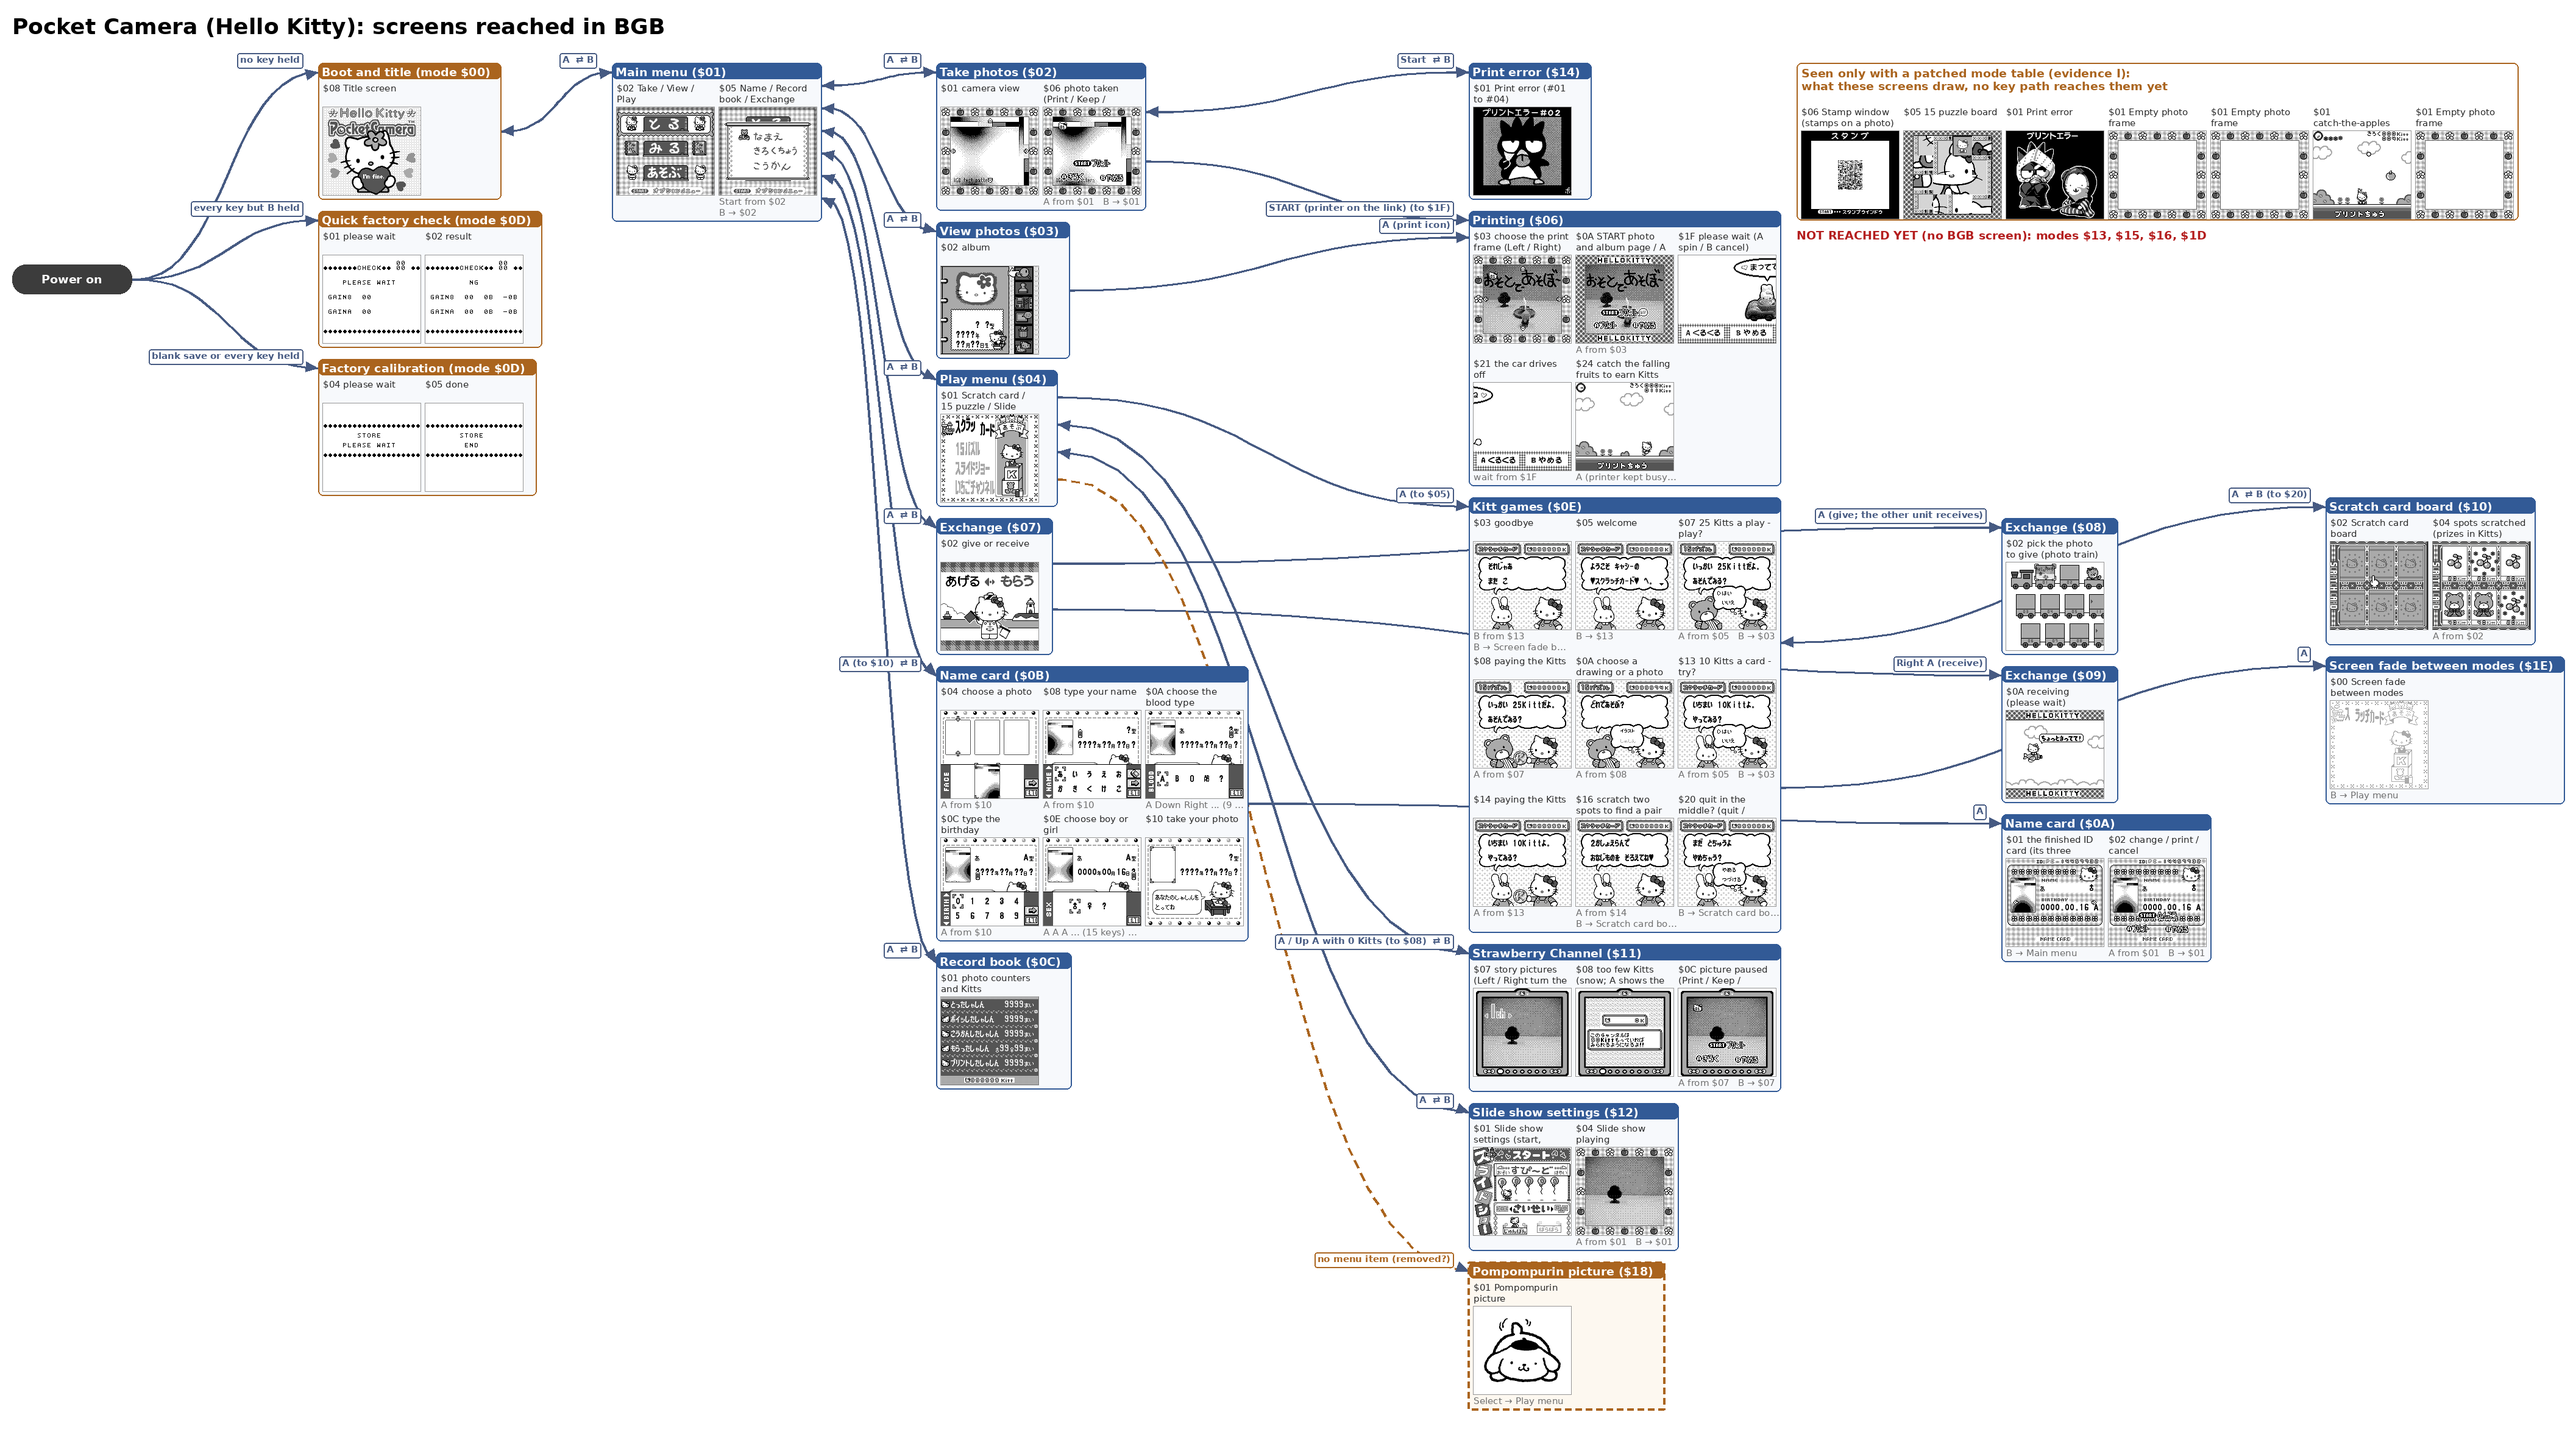
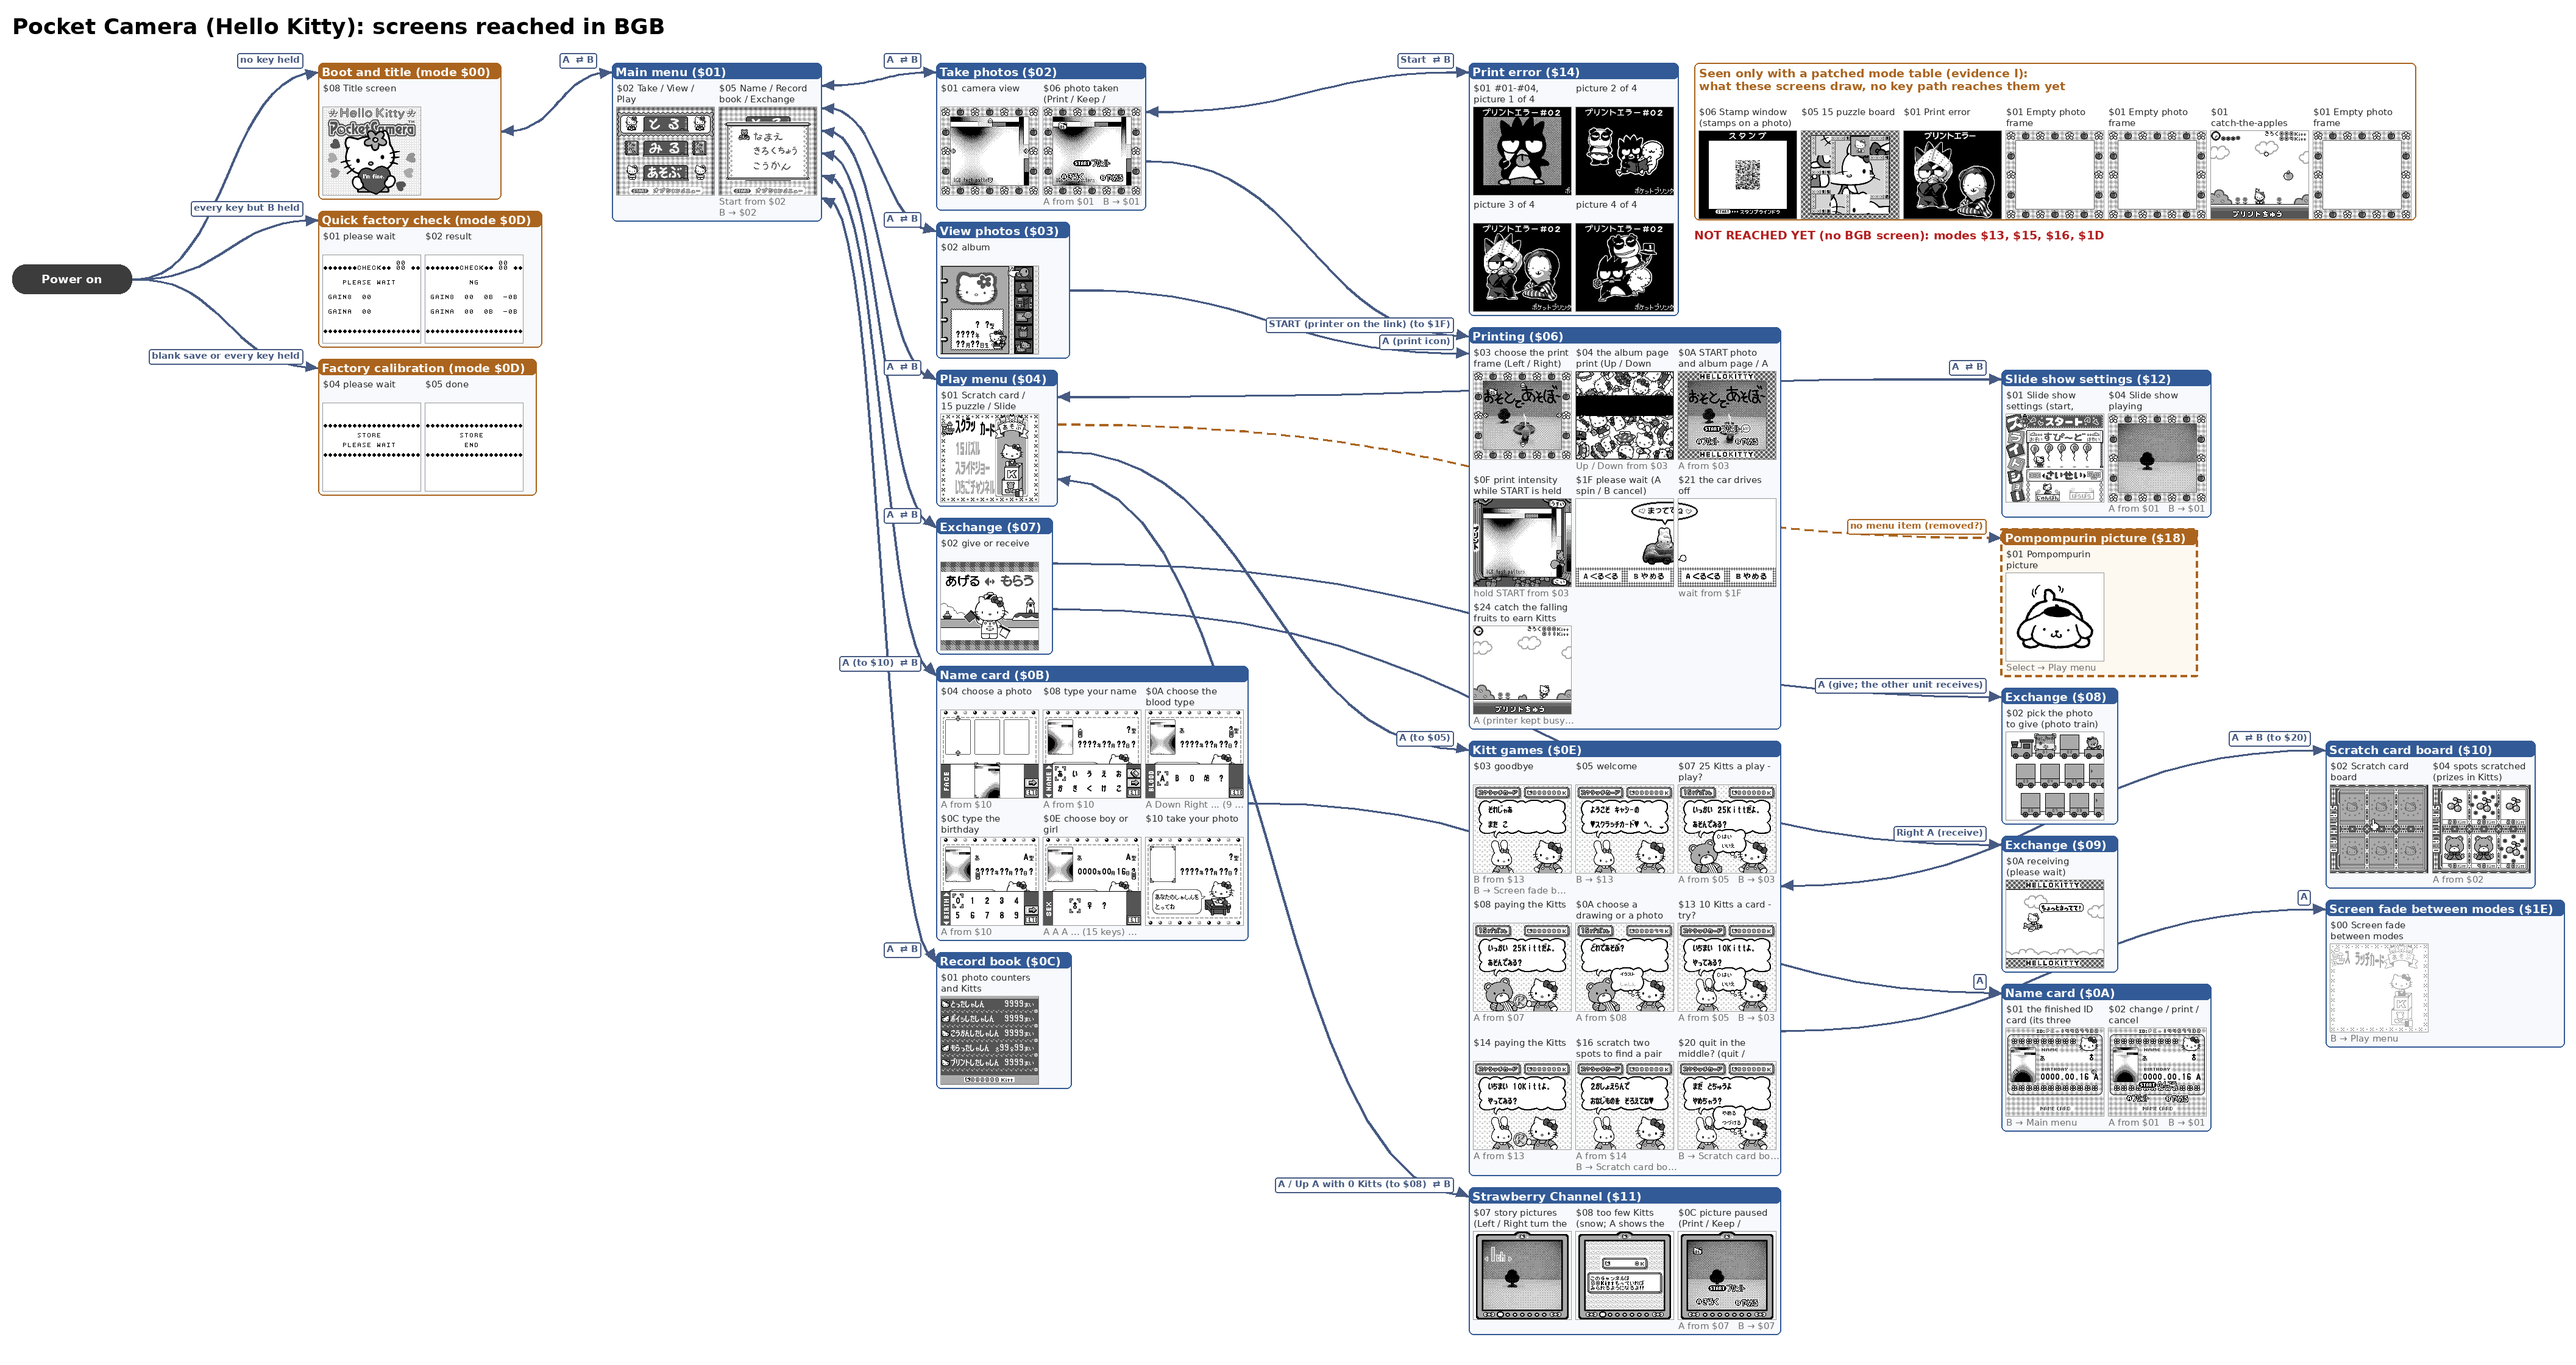
Hello Kitty screen tree: the print intensity (START held on the print frame, 06:0F), the album page print (Up / Down, 06:04) and the four print error pictures drawn at random (Rng_Next & 3, table 06:4464) found in BGB; README and trivia; kitty_bgb_print.py takes BGB_HF
Claude-Session: https://claude.ai/code/session_011bkRcGXfJ3fZfBVgH9Dsk3

Changed region(s): [[0.0, 0.0, 0.9993, 0.9996], [0.0, 0.0, 0.0937, 0.0312], [0.9056, 0.7497, 0.9368, 0.7809]]

diff --git a/tools/kitty_bgb_print.py b/tools/kitty_bgb_print.py
@@ -8,7 +8,7 @@ frames (or the --play pattern of held keys, repeated, to play the game shown whi
 on 127.0.0.1:8793; BGB writes the screen and state at the end, the helper the printed pages. Default path: take a photo
 (title A, Take A, shutter A) and print it (START on the photo-taken screen). Writes OUT_DIR/print_NNNNN.png (screen after N
 frames), modes.csv (frames, mode, state) and OUT_DIR/run_NNNNN/ (the helper's printer_log.json and page_NN.png).
-With BGB_WP set (a BGB -wp list, as tcrf_check/tools/bgb_run.py takes it) the run logs the watchpoint hits into run_NNNNN/debugmsg.txt.
+BGB_HF: the headless flag (default -hf; -headless when -hf hangs at the link handshake, as in the sandbox of 2026-11-12). With BGB_WP set (a BGB -wp list, as tcrf_check/tools/bgb_run.py takes it) the run logs the watchpoint hits into run_NNNNN/debugmsg.txt.
 """
 import sys, os, csv, argparse, subprocess, shutil, time
 HERE = os.path.dirname(os.path.abspath(__file__)); REPO = os.path.dirname(HERE); sys.path.insert(0, os.path.join(REPO, 'tcrf_check', 'tools'))
@@ -34,7 +34,7 @@ for n in [int(x) for x in a.frames.split(',')]:
     d = os.path.join(a.out, 'run_%05d' % n); os.makedirs(d, exist_ok=True)
     open(d + '/s.dem', 'wb').write(pre + tail + bytes(1)); shutil.copy(a.save, d + '/s.sav')
     srv = PrinterServer(a.port, d).start(); time.sleep(1)
-    subprocess.run(['xvfb-run', '-a', 'wine', bgb + '/bgb.exe', '-hf', '-nowarn', '-nowriteini', '-nobattsave', '-ini', bgb + '/bgb.ini', '-rom', os.path.abspath(a.rom),
+    subprocess.run(['xvfb-run', '-a', 'wine', bgb + '/bgb.exe', os.environ.get('BGB_HF', '-hf'), '-nowarn', '-nowriteini', '-nobattsave', '-ini', bgb + '/bgb.ini', '-rom', os.path.abspath(a.rom),
                     '-demoplay', d + '/s.dem', '-screenonexit', d + '/s.bmp', '-stateonexit', d + '/s.sna', '-loadbatt', d + '/s.sav',
                     '-connect', '127.0.0.1:%d' % a.port] + (['-wp', os.environ['BGB_WP'], '-setting', 'DebugMsgFile=1'] if os.environ.get('BGB_WP') else []), env=dict(os.environ, WINEDEBUG='-all', WINEPREFIX='/root/wineprefix'), capture_output=True, timeout=900)
     srv.stop()

diff --git a/roms/hello_kitty/README.md b/roms/hello_kitty/README.md
@@ -51,6 +51,8 @@ The Kitty engine is not the Japanese one, so this ROM has its own tracer, `tools
 * **Printing (C, BGB).** With the project's printer helper on the link (`tools/kitty_bgb_print.py`), START on the photo-taken screen prints: mode `$06` shows a little car and "please wait" (state `$1F`, A spin / B cancel), the car drives off (state `$21`), and A starts a game while the printer works (state `$24`: Hello Kitty jumps to catch falling fruits, the Kitts won and the record at the top right, a row of flowers at the top left). Kept busy by the helper (`PRN_POLLS=1000000`: every inquiry after the PRINT answers busy), the game runs on for 6,000 frames; the helper received one page. The apples caught are counted in `$D94F` (`PrintGame_DrawAppleCount`, state `$23`) and added to the Kitts when the game ends.
 * **Printing from the album: the print frames (C, BGB, 2026-11-08).** The third icon of the album binder (mode `$03` state `$02`) opens mode `$06` state `$03`: the photo in one of **six print frames**, chosen with Left / Right (flowers and apples, HELLO KITTY, a plain bevel, a "きょうのいちばん" (today's best) banner, an empty banner, Kitty heads); state `$0A` then offers START (the photo, then a second page with the album comment lines, the ID card fields and Kitty: states `$15` and `$1C`, `Print_SetFrameSide`, `Print_LoadFrameGfx`), A (the photo only) or B. The helper received each frame as printed ([`screens/print_frames.png`](screens/print_frames.png): the screen above, the printed photo page below; the photo is the core's stand-in sensor picture).
 * **Printer errors (C, BGB, 2026-11-08).** `PRN_ERR` of the printer helper (§16.16) replaces printer replies: no answer to INIT or `$FF` gives **print error #02** ("is the Pocket Printer connected?"), as does bit 4 (packet error) on one inquiry while printing; held for 200 inquiries while printing, bit 5 (paper jam) gives **#03** ("is the print sticker jammed?"), bit 6 gives **#04**, bit 7 (low battery) gives **#01** (mode `$14` state `$01`, [`screens/print_errors.png`](screens/print_errors.png)); bits 0 to 3 are ignored and the print completes.
+* **Print intensity and the album page (C, BGB, 2026-11-12, owner's hint).** On the print frame screen (mode `$06` state `$03`), START held shows the print intensity (state `$0F`, `Mode06_State0F`: うすい light at the top, こい dark at the bottom, a squirrel on the scale that Up / Down move); Up / Down instead fade to state `$02` and then `$04`, the album page print (a Kitty pattern, the HELLO KITTY title and comic panels; Up / Down scroll it, Left / Right return to the frame).
+* **Printing with no printer: four error pictures at random (C, BGB, 2026-11-12, owner's hint).** START or A in the print menu with nothing on the link gives print error #02, its message sliding from right to left under a picture that `Mode14_State00` draws at random: `Rng_Next & 3` picks one of the four 3-byte records of `06:4464` (`3E:5C00` Badtz-Maru alone, `3E:6A00` three characters, one reading a book, `3F:4000` two characters in hoods, `3D:6A00` three characters and a top hat), $800 bytes copied to `$9000` and $600 to `$8000`; twelve BGB runs with different timings showed all four (the screen tree shows them in the print error panel).
 * **Photo exchange (C, BGB, 2026-11-08).** Two linked BGB units (`tools/kitty_bgb_link.py`), the giving one with a photo it has just taken (title A, take A, shutter A, keep A, B): both open the exchange (mode `$07`), the giver presses A on "あげる" (give) first and the receiver Right A ("もらう", receive); the giver picks the photo on the photo train (mode `$08`, states `$00`-`$05`) and sends it (mode `$09` states `$01`-`$07`), the receiver waits ("ちょっとまってて", states `$08`, `$0A`, `$0E`, `$0F`, `$10`); both return to mode `$07`, and the receiver's SRAM changes in its first photo slot. When the giver has no photo, both show "no photo to give / receive" after a time-out. `Link_SumSlotBuffer` (unused in the Japanese ROM) runs here.
 * **Super Game Boy (C, BGB, 2026-11-08).** BGB as a Super Game Boy (`SystemMode=2`, `tcrf_check/tools/bgb_sgb_capture.sh`) shows a pink houndstooth border with the "Hello Kitty" logo and four coloured Kitty faces in the corners ([`screens/sgb_border.png`](screens/sgb_border.png), the title screen, 256 x 224); read watchpoints on the five transfer sources of bank `$08` (`08:40D0`, `4146`, `41F6`, `5206`, `6216`) all hit, so the never-read data of bank `$08` is the SGB data.
 * **Strawberry Channel without Kitts (C, BGB, 2026-11-08).** With 0 Kitts the channel shows snow (mode `$11` states `$03` / `$08`, `StrawberryCh_LockedCallback`) and A shows the price ("this channel can be watched with 50 Kitts"; prices `07:4F3A`: 50, 800, 100, 400, 200, 2,000 Kitts and one free channel).

diff --git a/README.md b/README.md
@@ -176,6 +176,8 @@ L0-L3 done (2026-11-12: every routine entry and every data block named, 2,218 na
 | What | How | Source, check |
 |---|---|---|
 | The Pompompurin picture | Game Genie `183-63B-E6E` | TCRF (not tested here); BGB shows the screen with the mode byte forced to `$18`, I |
+| Print intensity | album print, on the print frame: hold START, then Up / Down move the squirrel between うすい (light) and こい (dark) | owner; BGB, C |
+| Four print error pictures | print with no printer connected: error #02 with one of four pictures drawn at random (`Rng_Next & 3`, table `06:4464`), the message sliding under it | owner; BGB (12 runs), C |
 
 ### Pocket Camera Prototype (Japan) ("DEBAGAME")
 
